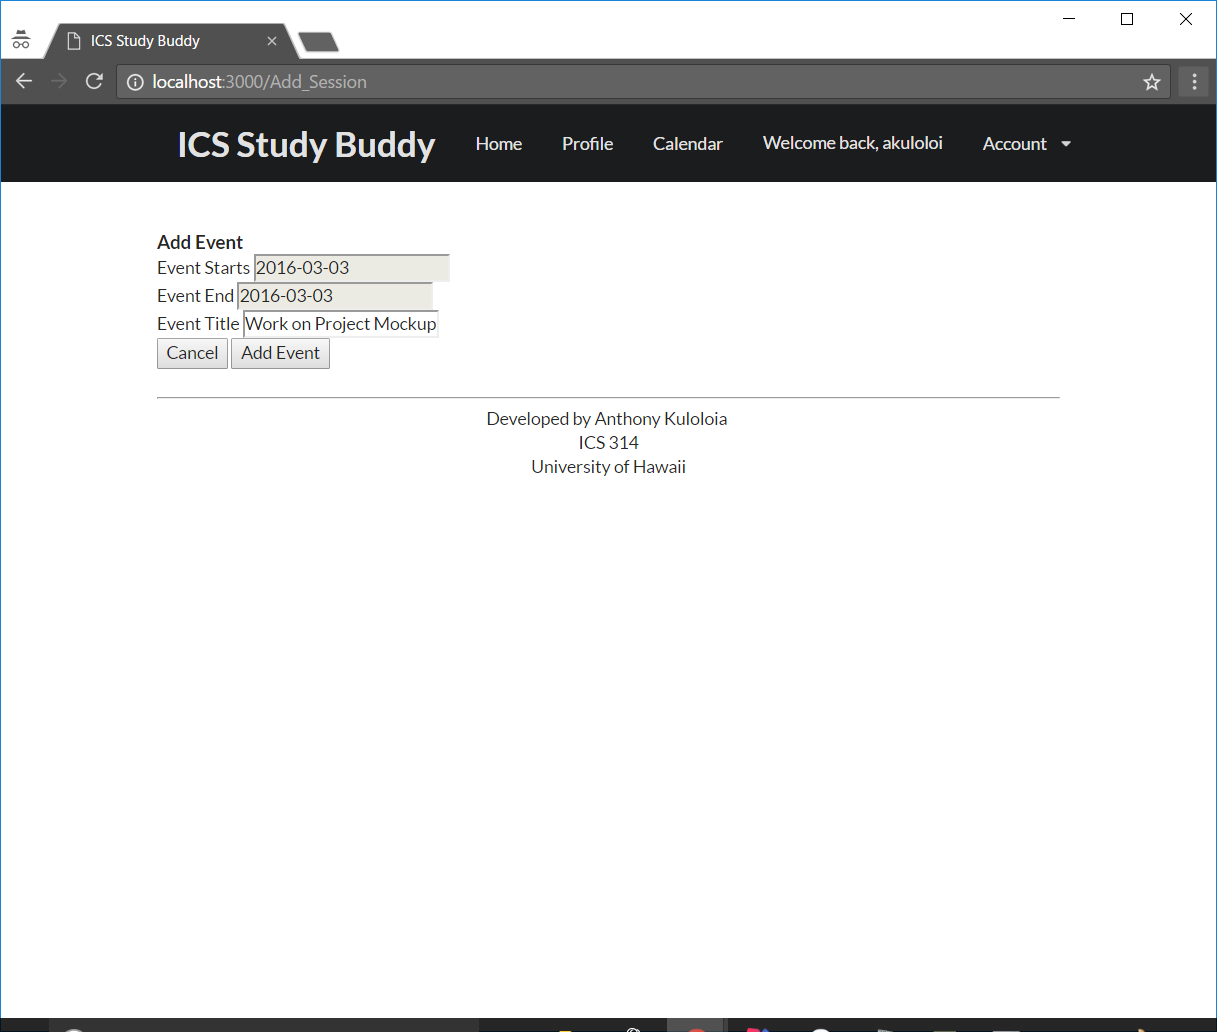
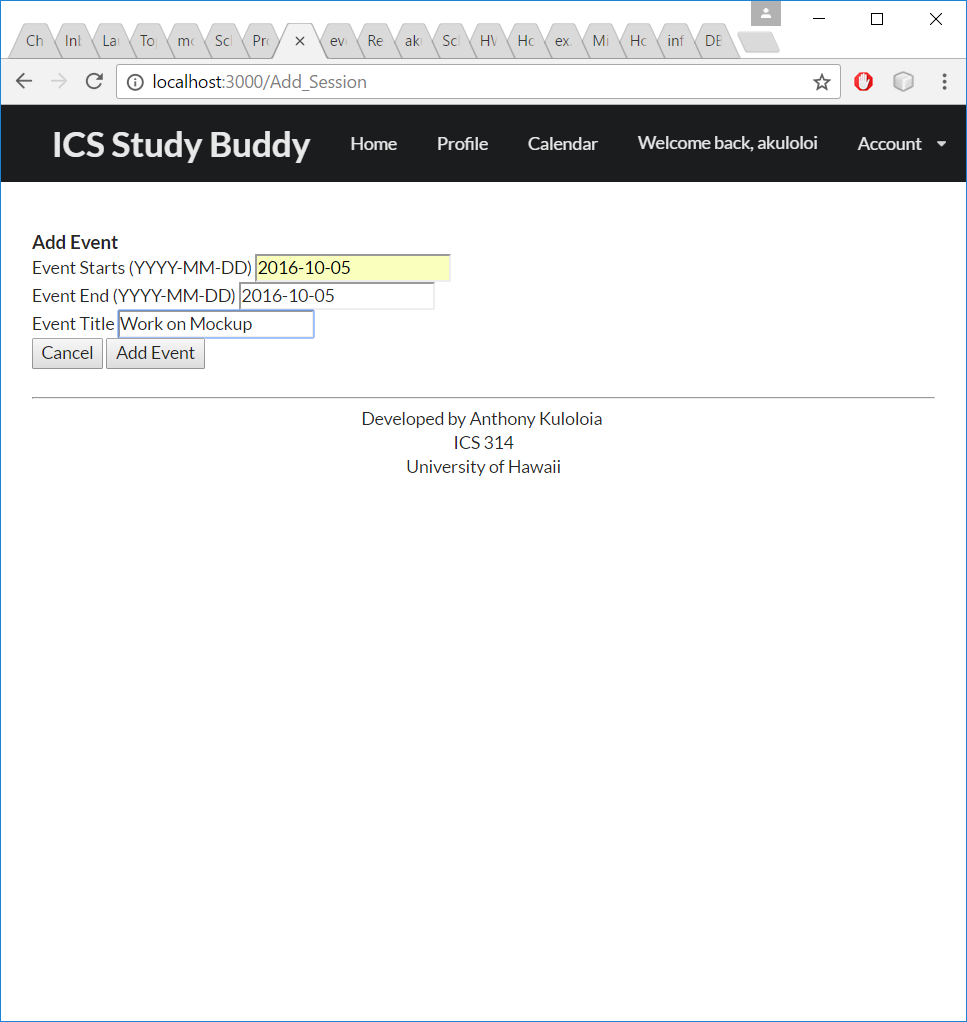
Update Mockup

Changed region(s): [[0.0, 0.0, 1.0, 1.0], [0.031, 0.2123, 0.4654, 0.364], [0.3723, 0.3943, 0.6205, 0.4853]]

diff --git a/app/imports/ui/pages/add-session.html b/app/imports/ui/pages/add-session.html
@@ -1,7 +1,6 @@
 <template name="Add_Session">
   <div class="ui container">
-    <div class="modal fade" id="add-edit-event-modal" tabindex="-1" role="dialog"
-         aria-labelledby="add-edit-event-modal">
+    <div class="modal fade" id="add-edit-event-modal" tabindex="-1" role="dialog" aria-labelledby="add-edit-event-modal">
       <div class="modal-dialog" role="document">
         <div class="modal-content">
           <div class="modal-header">
@@ -12,12 +11,12 @@
               <div class="form-group">
                 <div class="row">
                   <div class="col-xs-12 col-sm-3">
-                    <label for="start">Event Starts</label>
-                    <input disabled type="text" name="start" class="form-control" value="2016-03-03">
+                    <label for="start">Event Starts (YYYY-MM-DD)</label>
+                    <input type="text" name="start" class="form-control" value="{{event.start}}">
                   </div>
                   <div class="col-xs-12 col-sm-3">
-                    <label for="end">Event End</label>
-                    <input disabled type="text" name="end" class="form-control" value="2016-03-03">
+                    <label for="end">Event End (YYYY-MM-DD)</label>
+                    <input type="text" name="end" class="form-control" value="{{#if event.end}}{{event.end}}{{else}}{{event.start}}{{/if}}">
                   </div>
                 </div>
               </div>

diff --git a/app/imports/ui/pages/add-session.js b/app/imports/ui/pages/add-session.js
@@ -39,14 +39,12 @@ Template.Add_Session.events({
   'submit form' ( event, template ) {
     event.preventDefault();
 
-    let eventModal = 'Add',
-        submitType = 'addEvent',
+    let eventModal = Session.get( 'eventModal' ),
+        submitType = eventModal.type === 'edit' ? 'editEvent' : 'addEvent',
         eventItem  = {
           title: template.find( '[name="title"]' ).value,
-          start: "2016-10-03",
-          end: "2016-10-03",
-          type: template.find( '[name="type"] option:selected' ).value,
-          guests: parseInt( template.find( '[name="guests"]' ).value, 10 )
+          start: template.find( '[name="start"]' ).value,
+          end: template.find( '[name="end"]' ).value,
         };
 
     if ( submitType === 'editEvent' ) {
@@ -61,7 +59,7 @@ Template.Add_Session.events({
         closeModal();
       }
     });
-
+    Events.insert(eventItem);
     FlowRouter.go("events");
   }
 });

diff --git a/app/imports/api/events/events.js b/app/imports/api/events/events.js
@@ -1,17 +1,5 @@
 Events = new Mongo.Collection( 'events' );
 
-Events.allow({
-  insert: () => false,
-  update: () => false,
-  remove: () => false
-});
-
-Events.deny({
-  insert: () => true,
-  update: () => true,
-  remove: () => true
-});
-
 let EventsSchema = new SimpleSchema({
   'title': {
     type: String,
@@ -25,14 +13,6 @@ let EventsSchema = new SimpleSchema({
     type: String,
     label: 'When this event will end.'
   },
-  'type': {
-    type: String,
-    label: 'What type of event is this?',
-  },
-  'guests': {
-    type: Number,
-    label: 'The number of guests expected at this event.'
-  }
 });
 
 Events.attachSchema( EventsSchema );

diff --git a/app/imports/ui/pages/events.js b/app/imports/ui/pages/events.js
@@ -22,8 +22,9 @@ Template.events.onRendered( () => {
     },
 
     dayClick( date ) {
+      Events.insert( { title: 'Event Title', start: '2016-10-04', end: '2016-10-04', editable: true, type: 'Corporate', guests: 50 } );
       FlowRouter.go('Add_Session');
-      Events.insert( { title: 'Event Title', start: '2016-10-03', end: '2016-10-03', editable: true, type: 'Corporate', guests: 50 } );
+      Session.set( 'eventModal', { type: 'add', date: date.format() } );
     },
 
     eventClick( event ) {

diff --git a/app/client/main.js b/app/client/main.js
@@ -1,5 +1,6 @@
 import '/imports/startup/client';
 import '/imports/startup/both';
+import '/imports/api/events';
 import '/imports/ui/layouts';
 import '/imports/ui/pages';
 import '/imports/ui/stylesheets/style.css';

diff --git a/app/server/main.js b/app/server/main.js
@@ -1,2 +1,3 @@
 import '/imports/startup/server';
 import '/imports/startup/both';
+import '/imports/api/events'

diff --git a/app/imports/ui/pages/public-landing-page.html b/app/imports/ui/pages/public-landing-page.html
@@ -3,7 +3,5 @@
 
       <img class="ui fluid image" src="/images/studybuddy.jpg"/>
 
-
-
   </div>
 </template>

diff --git a/app/imports/startup/server/index.js b/app/imports/startup/server/index.js
@@ -1,3 +1,2 @@
 import './accounts.js';
-import './events.js';
 import './insert/event.js';

diff --git a/app/imports/api/events/index.js b/app/imports/api/events/index.js
@@ -1,0 +1,1 @@
+import './events.js';

diff --git a/README.md b/README.md
@@ -1,5 +1,4 @@
 # Public Landing Page
-<<<<<<< HEAD
 <img class="ui medium right floated rounded image" src="doc/PublicLandingPage.png">
 
 # Agreement Page
@@ -16,21 +15,6 @@
 
 # Create Session Page
 <img class="ui medium right floated rounded image" src="doc/CreateSession.png">
-=======
-<img class="ui medium right floated rounded image" src="doc/public landing page.png">
 
-# Agreement Page
-<img class="ui medium right floated rounded image" src="doc/AgreementPage.png">
-
-# User Home Page
-<img class="ui medium right floated rounded image" src="doc/User Home Page.png">
-
-# User Profile Page
-<img class="ui medium right floated rounded image" src="doc/User Profile Page.png">
-
-# Calendar Page
-<img class="ui medium right floated rounded image" src="doc/Calendar Page.png">
-
-# Progress Page
-<img class="ui medium right floated rounded image" src="doc/ProgressPage.png">
->>>>>>> origin/master
+# Calendar After Session is Created
+<img class="ui medium right floated rounded image" src="doc/CalendarAfter.png">
